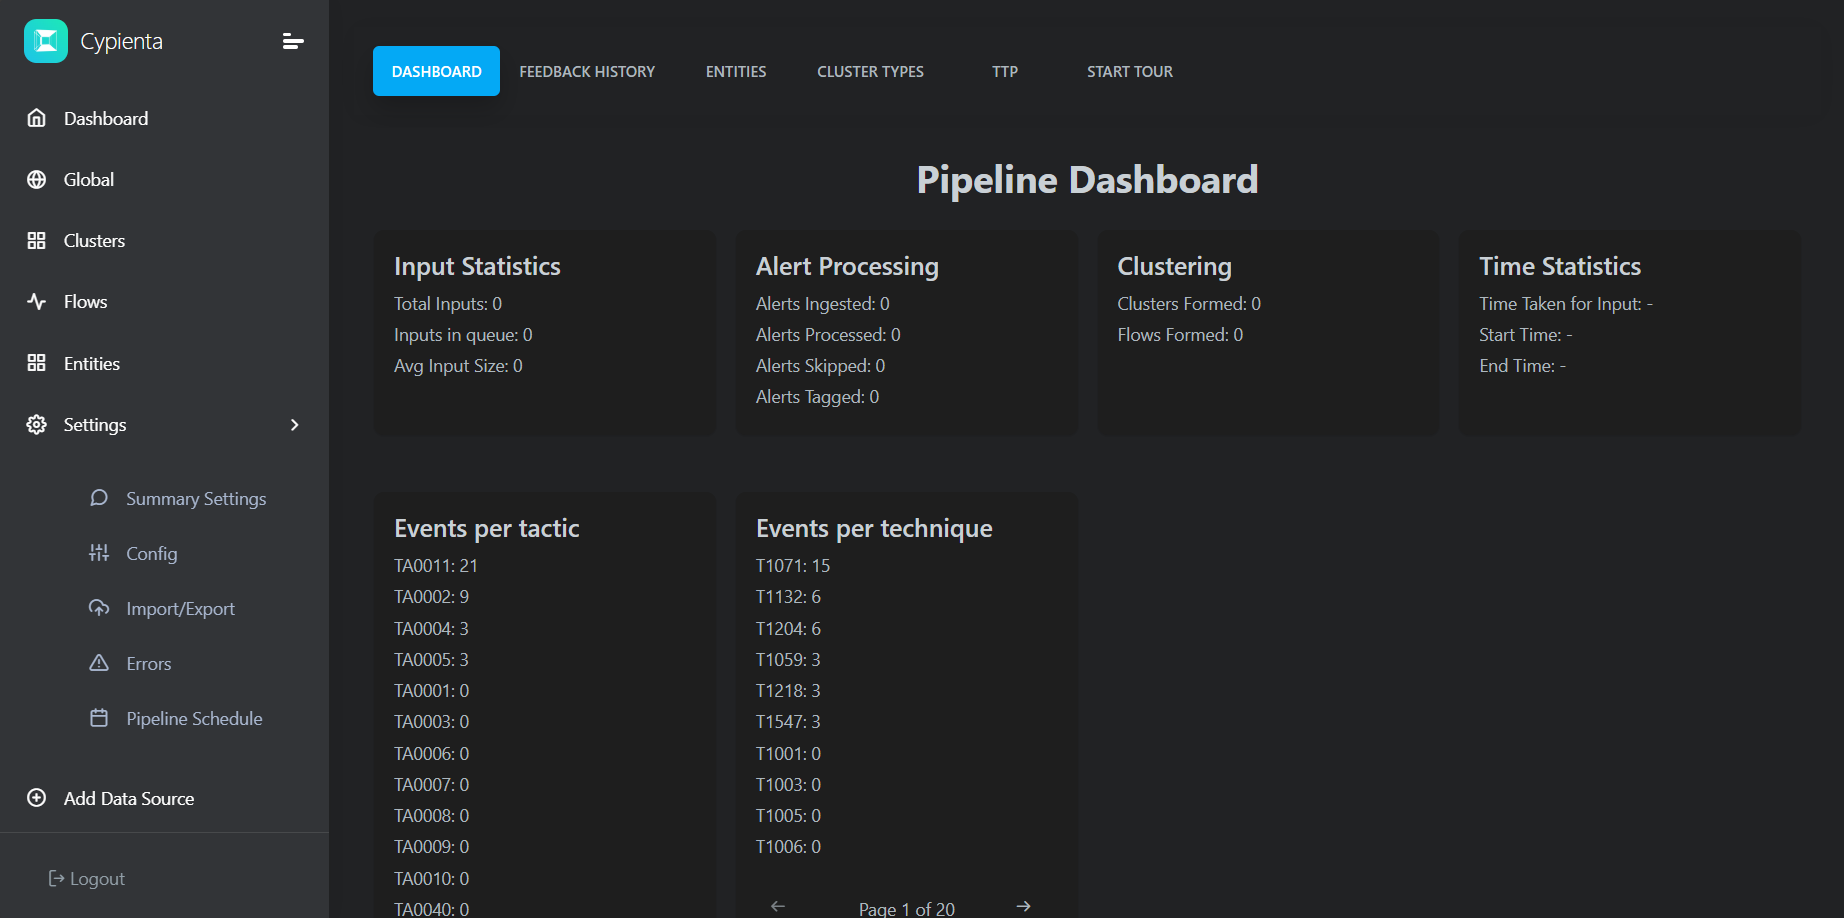
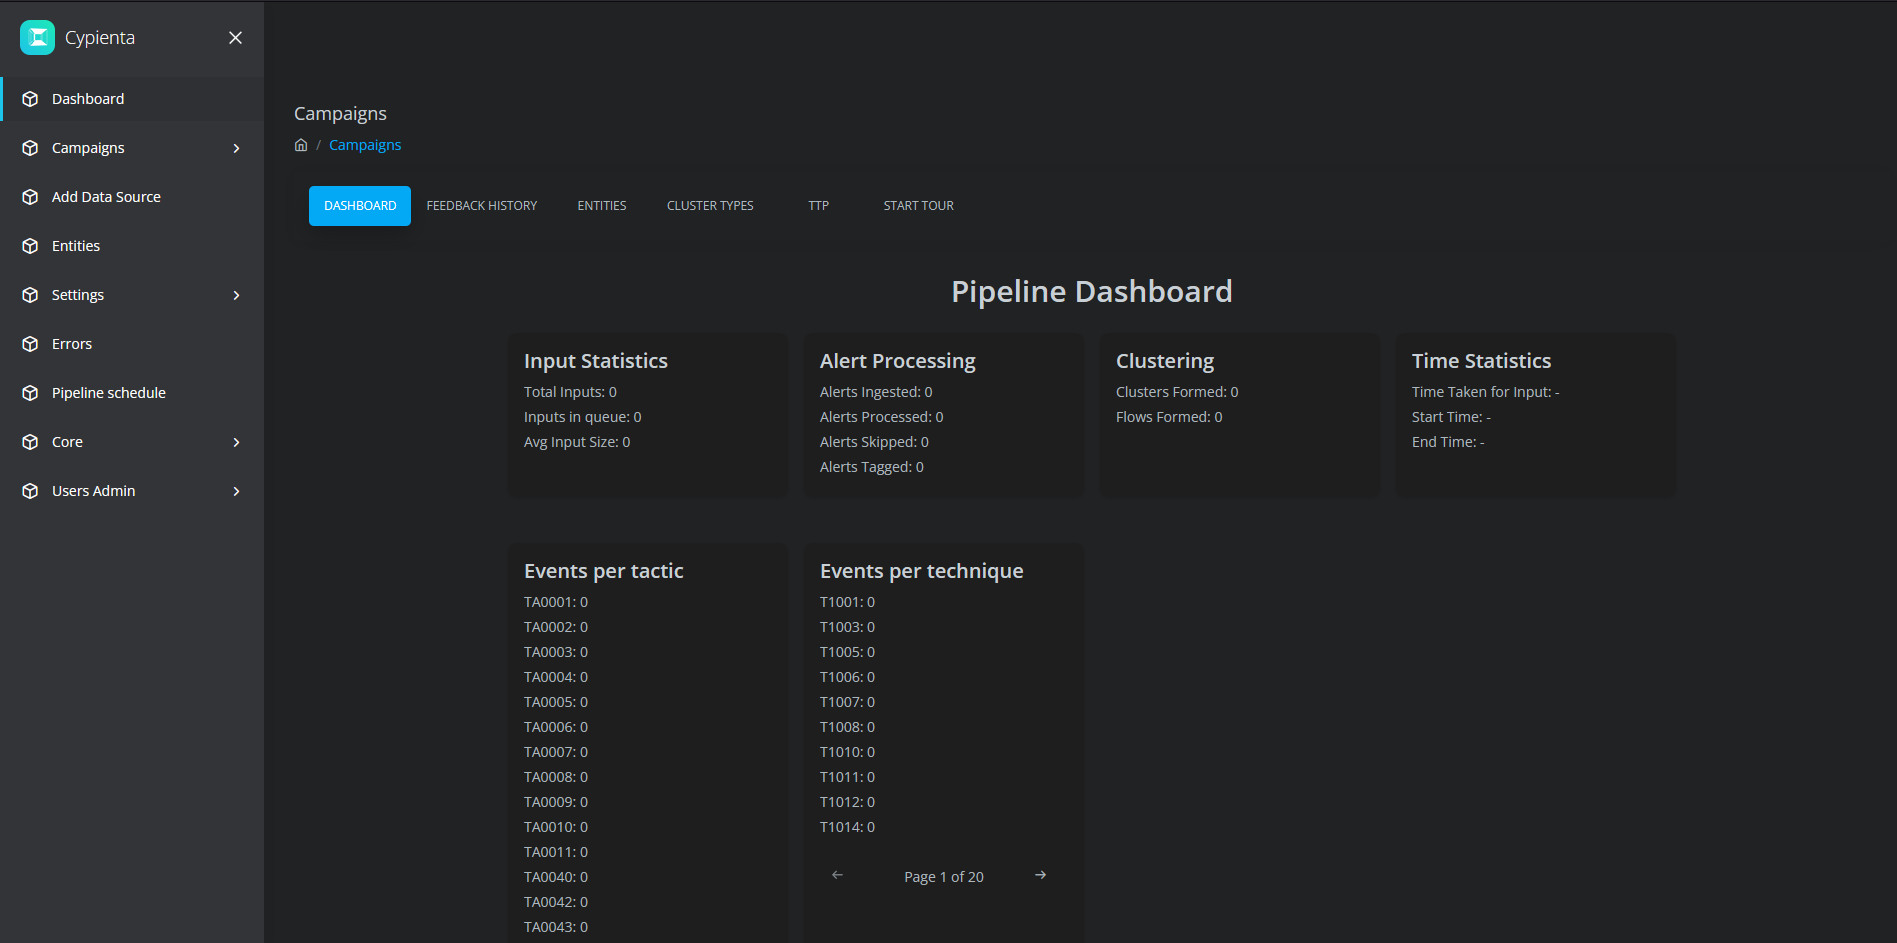
update images

diff --git a/docs/source/deploy_ui/start_using.rst b/docs/source/deploy_ui/start_using.rst
@@ -214,54 +214,54 @@ How to use "Cut Events" feature
         :align: center
 
 
-.. How to add Rules and Labels for campaigns
-.. -----------------------------------------
+How to add Rules and Labels for campaigns
+-----------------------------------------
 
-.. 1. On the left hand side panel, click on ``Cluster`` drop down and select ``Rules``.
+1. On the left hand side panel, click on ``Cluster`` drop down and select ``Rules``.
 
-..     .. image:: resources/select_rules.png
-..         :alt: select rules
-..         :align: center
+    .. image:: resources/select_rules.png
+        :alt: select rules
+        :align: center
 
-.. 2. Click on ``Add Rule`` button to add a new rule.
+2. Click on ``Add Rule`` button to add a new rule.
 
-..     .. image:: resources/add_rule.png
-..         :alt: add rule
-..         :align: center
+    .. image:: resources/add_rule.png
+        :alt: add rule
+        :align: center
 
-.. 3. Fill in the details for the rule. Give a distinguishable name to the rule. Select the metric on which you want to set a rule.
-..    Select the condition and value for the rule. Do not select any of the campaigns in the ``Campaigns`` field and click on ``Save``.
+3. Fill in the details for the rule. Give a distinguishable name to the rule. Select the metric on which you want to set a rule.
+   Select the condition and value for the rule. Do not select any of the campaigns in the ``Campaigns`` field and click on ``Save``.
 
-..     .. image:: resources/new_rule.png
-..         :alt: add rule details
-..         :align: center
+    .. image:: resources/new_rule.png
+        :alt: add rule details
+        :align: center
 
-.. 4. Now to utilize the new rule we need to add a label to the campaign. On the left hand side panel, click on ``Cluster`` drop down and select ``Labels``.
+4. Now to utilize the new rule we need to add a label to the campaign. On the left hand side panel, click on ``Cluster`` drop down and select ``Labels``.
 
-..     .. image:: resources/select_labels.png
-..         :alt: select labels
-..         :align: center
+    .. image:: resources/select_labels.png
+        :alt: select labels
+        :align: center
 
-.. 5. Click on ``Add Label`` button to add a new label.
+5. Click on ``Add Label`` button to add a new label.
 
-..     .. image:: resources/add_label.png
-..         :alt: add label
-..         :align: center
+    .. image:: resources/add_label.png
+        :alt: add label
+        :align: center
 
-.. 6. Fill in the details for the label. Give a distinguishable name to the label, which will be applied to all campaigns. Select the rules that you want to apply to the label and click on ``Save``.
+6. Fill in the details for the label. Give a distinguishable name to the label, which will be applied to all campaigns. Select the rules that you want to apply to the label and click on ``Save``.
 
-..     .. image:: resources/new_label.png
-..         :alt: add label details
-..         :align: center
+    .. image:: resources/new_label.png
+        :alt: add label details
+        :align: center
 
-.. 7. Now go back to the ``Clusters`` page to see the list of Campaigns and you will see the label applied to all the campaigns.
+7. Now go back to the ``Clusters`` page to see the list of Campaigns and you will see the label applied to all the campaigns.
 
-..     .. image:: resources/view_labels.png
-..         :alt: label applied
-..         :align: center
+    .. image:: resources/view_labels.png
+        :alt: label applied
+        :align: center
 
-..     .. note::
-..         Applying new or edited rules or labels to all campaigns may take some time. Refresh the campaigns page to check if the changes have been applied.
+    .. note::
+        Applying new or edited rules or labels to all campaigns may take some time. Refresh the campaigns page to check if the changes have been applied.
 
 
 .. Generate summary using Open AI
